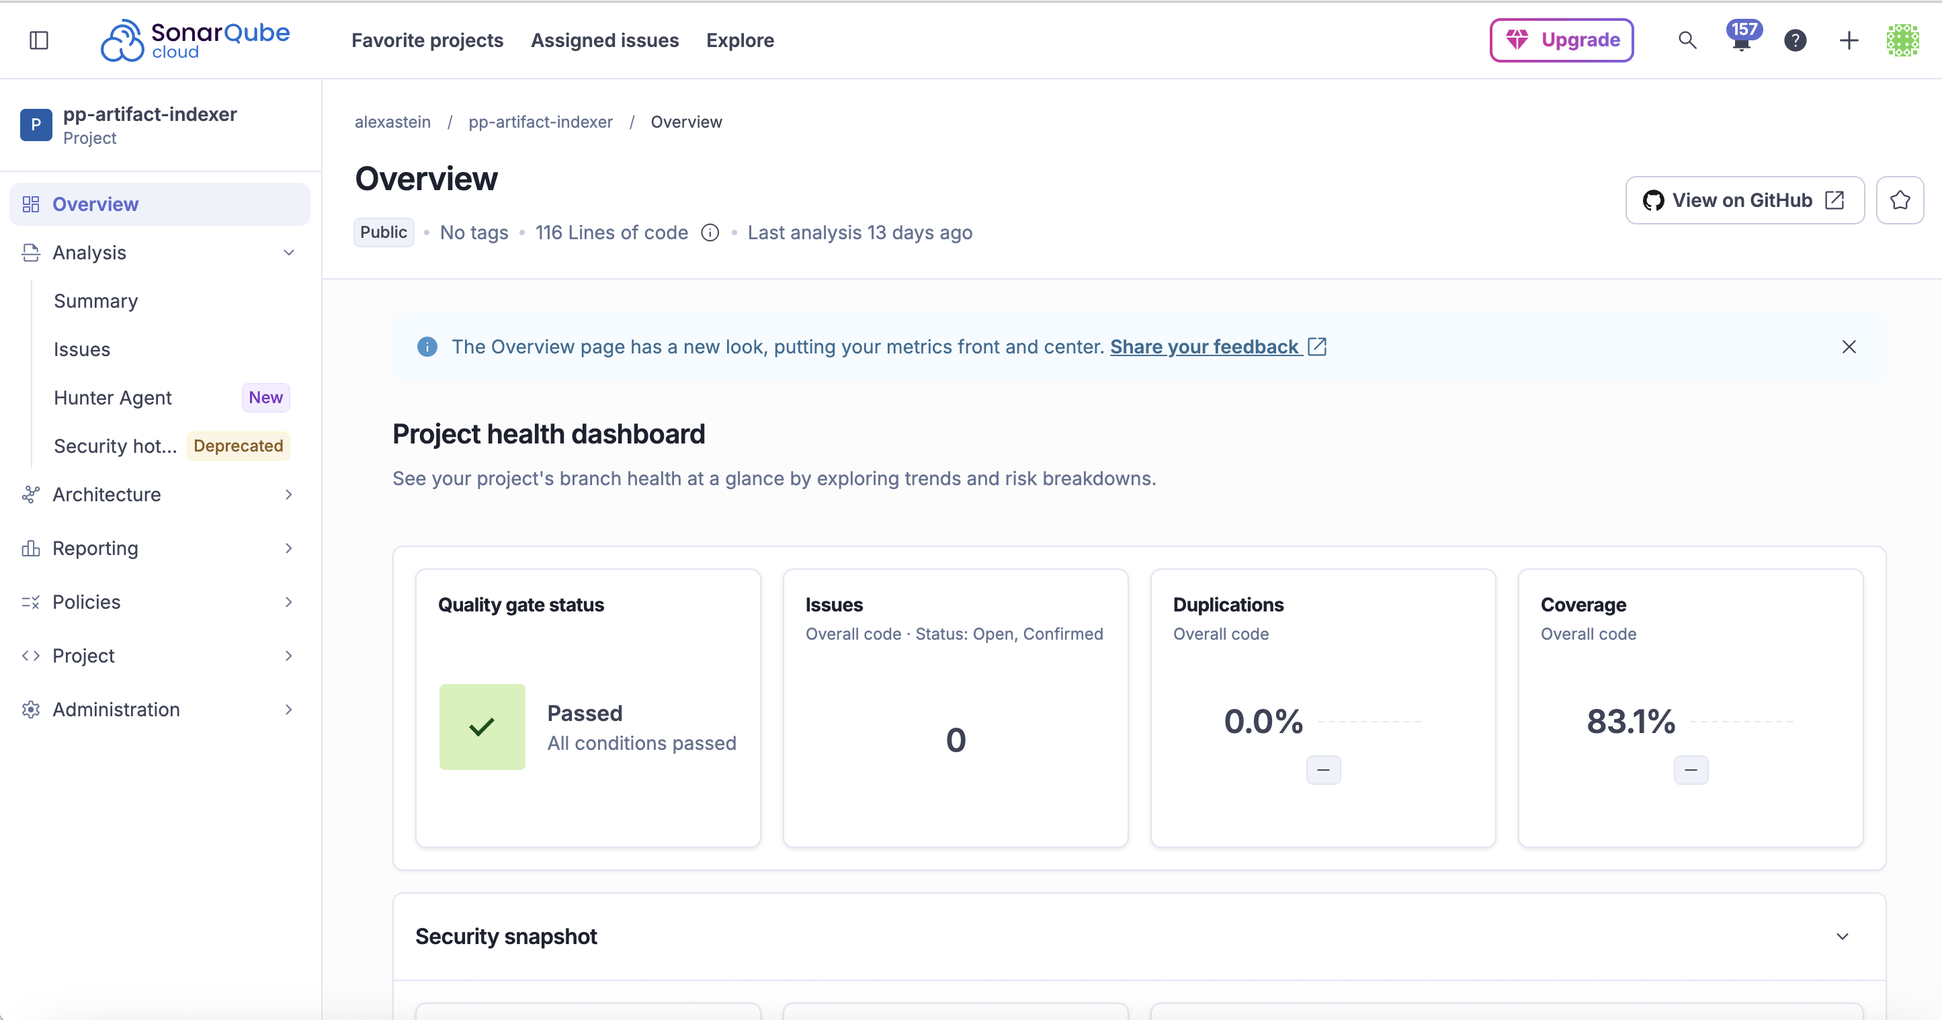
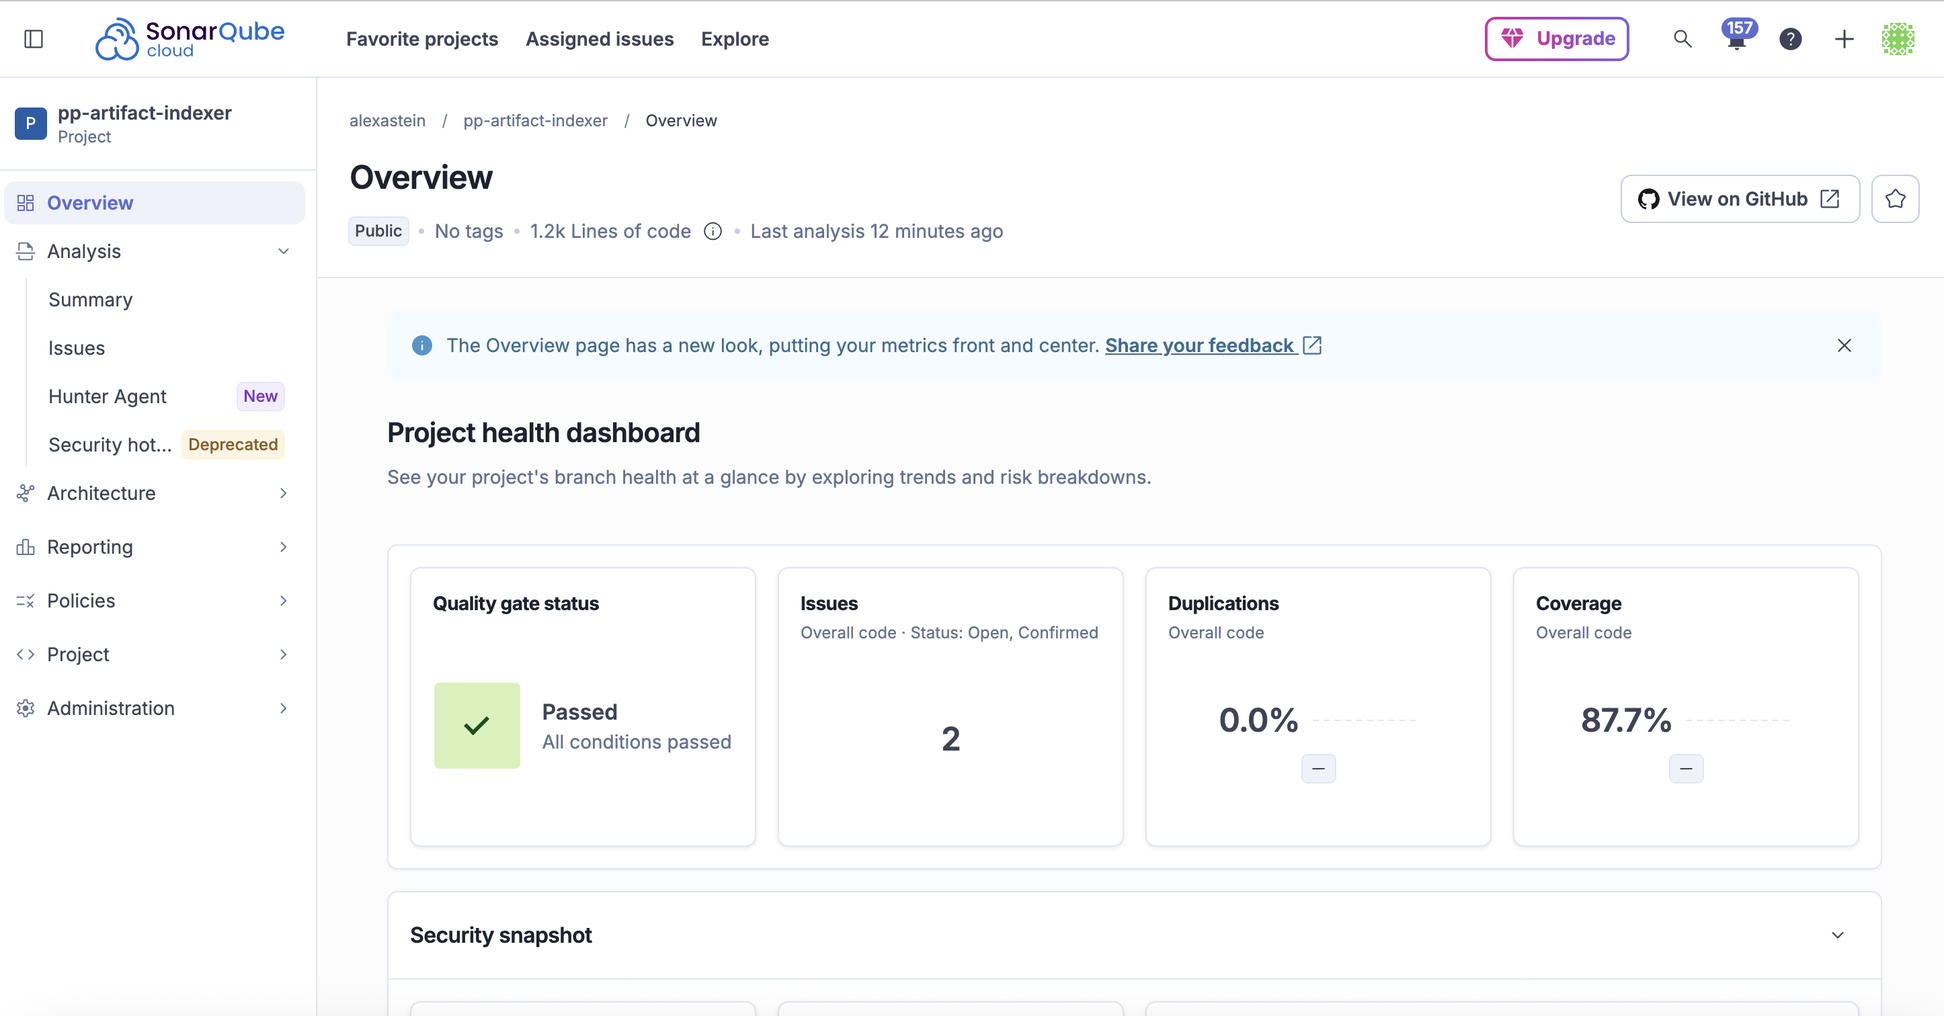
HUMAN: PA2 SonarQube results (2 issues) + overview screenshot

diff --git a/pipeline-logs/pa2/sast-triage-report.md b/pipeline-logs/pa2/sast-triage-report.md
@@ -34,12 +34,12 @@
 | Tool | Ruleset / scope | Result | Raw evidence |
 |---|---|---|---|
 | Semgrep 1.184 | `p/default`, `p/owasp-top-ten`, `p/nodejs`, `p/typescript`, `p/dockerfile`, `p/github-actions` — 266 rules, 88 files | ✅ ran — **1 finding** | `pipeline-logs/pa2/2_SAST (Semgrep).txt`, `semgrep.sarif` |
-| SonarQube Cloud | `functional-codebase/src` + tests, lcov coverage | ❌ **did not analyze** — scanner exited with `HTTP 403 Forbidden` on `api.sonarcloud.io` (invalid/expired `SONAR_TOKEN`) | `pipeline-logs/pa2/0_SAST (SonarQube Cloud).txt` |
+| SonarQube Cloud | `functional-codebase/src` + tests, lcov coverage, profile "Sonar way" (ts) | ✅ ran after token fix (first run failed with `HTTP 403`, bad `SONAR_TOKEN`) — 1.2k LOC, **2 issues**, 87.7 % coverage, 0.0 % duplication, quality gate **Passed** | `pipeline-logs/pa2/0_SAST (SonarQube Cloud).txt`, `sonar-overview.png`, `sonar-issues.json` |
 | Trivy fs 0.36 | vuln + secret + misconfig, whole repo | ✅ ran — 0 vulnerable deps, 0 secrets, **1 misconfig** | `pipeline-logs/pa2/3_Dependency & Secret Scan …txt` |
 | Trivy image 0.36 | built `pp-artifact-indexer` runtime image (`node:22-alpine` base) | ✅ ran — **1 HIGH** in a base-image package (see TV-2) | GitHub → Security → Code scanning alert #10 (tool = Trivy) |
 | npm audit | `functional-codebase/` lockfile | ✅ 0 vulnerabilities | `4_Build & Unit Test.txt` |
 
-> **Observation:** automated SAST produced almost nothing (2 alerts total) on a service that has **no authentication or authorization at all**. That gap is the main empirical result of this baseline — see §4.
+> **Observation:** automated scanning produced only a handful of alerts (Semgrep 1, SonarQube 2, Trivy 2) and SonarQube's quality gate **passed** on a service that has **no authentication or authorization at all**. That gap is the main empirical result of this baseline — see §4.
 
 ---
 
@@ -50,7 +50,8 @@
 | SG-1 | Semgrep `javascript.lang.security.audit.unsafe-formatstring.unsafe-formatstring` (GitHub code-scanning alert #25) | `functional-codebase/src/storage.ts:55` — `console.error(\`Could not delete stored file ${full}\`, err)` | **FP** | Info | CWE-134 (→ CWE-117 log forging) | Rule: a non-literal first argument to `console.*` with extra args lets an injected `%s`/`%o` re-interpret `err` and forge the log line. **Not reachable:** `full` is built only from server data — `FILE_STORAGE_DIR` + `project_id` + `artifact_id` + `randomUUID()` file name (`manuscript-files.ts` L89–94). Both ids must match `UUID_RE` (`[0-9a-f-]` only, `validation.ts`), and the user's original file name never enters the path, so no request can place a `%` in it. Only the trusted operator's env var could. **Hardening anyway (PA3):** constant format string `console.error("Could not delete stored file %s", full, err)` or a structured logger (pino). Same pattern exists unflagged at `storage.ts:48` and `manuscript-files.ts:69` because the rule only matches when extra arguments follow. |
 | TV-1 | Trivy `DS-0026` | `functional-codebase/Dockerfile` | **TP** | Low | — (hardening; relates to availability) | The runtime stage has no `HEALTHCHECK`. The PA1 Dockerfile had one; the agent dropped it. Orchestrators cannot detect a hung API. Real, low impact. |
 | TV-2 | Trivy image `CVE-2026-69192` (HIGH) — `ip-address` 10.1.0, fixed in 10.3.1 | `/usr/local/lib/node_modules/npm/node_modules/ip-address` (inside the `node:22-alpine` base image) | **TP (present) / not exploitable** — residual **Low** | HIGH → Low | CWE-1389 (enables CWE-918 SSRF) | The library treats `012.0.0.1` as decimal 12.0.0.1 while the network stack reads it as octal 10.0.0.1, so SSRF filters built on it can be bypassed. **Reachability:** the package is a dependency of the **npm CLI bundled in the base image**, not of our app (`package.json` has no `ip-address`, no code imports it), npm never runs at runtime (`CMD node dist/server.js`), and the service makes **no outbound requests** (`git-mock.ts` reads a local JSON file). Scanner is right that the vulnerable code ships; it has no context on whether it is reachable. **Fix (PA3):** delete npm/npx from the runtime stage or use a distroless Node image; rebuild on base-image updates. |
-| SQ-* | SonarQube Cloud | — | **Not available** | | | Analysis never ran (403). _After fixing the token and re-running, export issues + hotspots and add one row per finding._ |
+| SQ-1 | SonarQube `typescript:S6671` "Expected the Promise rejection reason to be an Error" (Reliability · Medium) | `functional-codebase/src/routes/manuscript-files.ts:45` — `reject(err)` where `err` is `unknown` | **TP — code quality, not a vulnerability** | Low | — (closest: CWE-703) | Real: a non-`Error` value from multer could reach the error handler. Not a security issue: `errorHandler` (`src/errors.ts`) turns anything that isn't an `AppError` into a generic `500 internal_error` with no details, so nothing leaks. Fix: `reject(err instanceof Error ? err : new Error(String(err)))`. |
+| SQ-2 | SonarQube `typescript:S5852` "Simplify this regular expression … super-linear performance due to backtracking" (Reliability · Medium) | `functional-codebase/src/validation.ts:19` — member e-mail regex `/^[^\s@]+@[^\s@]+\.[^\s@]+$/` | **TP — exploitable ReDoS → see V9** | **High** | **CWE-1333** (→ CWE-400) | `[^\s@]` also matches `.`, so for `"a@" + "."×n + "@"` the engine tries every split between the two `+` groups before failing → **O(n²)**. Measured with Node 22 on the exact regex: 10k chars 148 ms, 20k 591 ms, 40k 2.35 s, **80k 8.9 s**. Sonar rated it a "performance" smell; in context it is a security bug (see V9). |
 
 ### 2.1 Pre-triaged "likely alerts" (what a scanner would flag and why it is or isn't real)
 
@@ -79,6 +80,7 @@ These are the code patterns in this codebase that SAST rules typically match. Th
 | **V5** | State machine / Concurrency | `revision_version` is never checked → silent lost updates | **CWE-362** | Medium | Manual |
 | **V6** | Data exposure / Privacy | Member names + e-mails returned to anonymous callers | **CWE-359** | Medium | Manual |
 | **V7** | Audit / Repudiation | No audit trail of who created/changed/deleted what | **CWE-778** | Low–Medium | Manual |
+| **V9** | Input validation / Availability | ReDoS in the agent-added e-mail regex: one unauthenticated request can freeze the whole API | **CWE-1333** | High | **SonarQube (SQ-2)** + manual exploit analysis |
 | **V8** | Infrastructure / Config | Hard-coded DB credentials; container hardening dropped (no `HEALTHCHECK`, no `read_only`/`no-new-privileges`, API published on all interfaces) | **CWE-798** | Low | Trivy (partly) + manual |
 
 ### V1 — Missing authentication for critical functions (CWE-306)
@@ -129,6 +131,14 @@ These are the code patterns in this codebase that SAST rules typically match. Th
 - **Where:** `functional-codebase/docker-compose.yml` L15, L27; `.env.example` L9; `Dockerfile` (no `HEALTHCHECK` — Trivy DS-0026); compose `api` publishes `"3000:3000"` on all interfaces and lacks `read_only` / `no-new-privileges`, all of which the PA1 compose file had.
 - **Root cause:** the agent regenerated Docker config from scratch for the new folder instead of reusing the hardened PA1 files.
 
+### V9 — Inefficient regular expression (ReDoS) in member e-mail validation (CWE-1333)
+- **Where:** `src/validation.ts` L19, used by `projectBodySchema` for `POST /api/v1/projects` and `PUT /api/v1/projects/{id}`.
+- **Root cause:** the agent added e-mail validation **on its own** (never requested) with an ambiguous regex: `[^\s@]+\.[^\s@]+` can split a run of dots in many ways, and V8's backtracking engine tries all of them when the match fails → quadratic time.
+- **Why the length limit doesn't save it:** the schema is `.max(254).regex(...)`, but Zod runs all checks in order by default (it only stops early when a check is created with `abort: true`), so the regex still runs on a too-long string. The only real cap is Express's 100 kB JSON body limit, which allows ~100 000 characters.
+- **Impact:** Node.js runs request handlers on a single thread, so one request with an ~80–100 kB e-mail blocks **every** client (including `/health`) for roughly 9–14 s, and a few such requests per second keep the service down. With no authentication (V1) and no rate limit (V4), anyone can do this.
+- **Evidence:** regex timing measured on Node 22 (see SQ-2); end-to-end check in `security-poc/naive-checks.sh` step "V9" (times `/health` while the payload is processed).
+- **Fix (PA3):** use a linear-time pattern without overlapping groups (e.g. `^[^\s@]+@[^\s@.]+(\.[^\s@.]+)+$`) or `z.email()`, put `.max(254, { abort: true })` before it, and lower `express.json({ limit: "32kb" })`.
+
 ---
 
 ## 4. What the scanners missed and why
@@ -141,7 +151,9 @@ These are the code patterns in this codebase that SAST rules typically match. Th
 | V4 resource exhaustion | Needs knowledge of indexes, data volume and deployment; no single line is "wrong". |
 | V7 audit | Absence of logging is invisible to pattern matching. |
 
-Interesting counter-result: the agent **independently** added parameterized SQL with column whitelists, UUID format checks, Zod body validation, path confinement for stored files, random on-disk filenames, upload size limits, `nosniff`, and even swapped `archiver` for `fflate` after `npm audit` flagged a transitive dependency. So injection-class bugs that SAST is good at finding were mostly prevented, while every *access-control* bug — the OWASP API Top 10 #1/#2 class — was left wide open.
+**Scanner value check:** SonarQube's single most important finding (SQ-2) was labelled a *Reliability / performance* smell, and its quality gate still **passed**. It only became a High-severity DoS once a human worked out who can reach it (anyone, V1), how long the input can be (100 kB, Zod doesn't abort), and what the runtime model means (one Node thread). Severity from a scanner is a starting point, not a verdict.
+
+Interesting counter-result: the agent **independently** added parameterized SQL with column whitelists, UUID format checks, Zod body validation, path confinement for stored files, random on-disk filenames, upload size limits, `nosniff`, and even swapped `archiver` for `fflate` after `npm audit` flagged a transitive dependency. So injection-class bugs that SAST is good at finding were mostly prevented — although one of the agent's own validation regexes introduced a ReDoS (V9) — while every *access-control* bug — the OWASP API Top 10 #1/#2 class — was left wide open.
 
 ---
 
@@ -149,10 +161,10 @@ Interesting counter-result: the agent **independently** added parameterized SQL 
 
 | Category | Count |
 |---|---|
-| Raw scanner alerts | 3 (Semgrep 1, Trivy fs misconfig 1, Trivy image CVE 1); SonarQube pending export |
-| True positives from scanners | 2 (TV-1; TV-2 present but not reachable) |
+| Raw scanner alerts | 5 (Semgrep 1, SonarQube 2, Trivy fs misconfig 1, Trivy image CVE 1) |
+| True positives from scanners | 4 — TV-1, SQ-1 (quality only), TV-2 (present, not reachable), **SQ-2 (exploitable, High → V9)** |
 | False positives from scanners | 1 (SG-1 format string — input not attacker-controlled) |
-| Manual-only confirmed vulnerabilities | 7 (V1–V7) + V8 partly scanner-found |
-| Distinct layers covered | 8 (Authentication, Authorization, Input/File, Database/Availability, State, Privacy, Audit, Infrastructure) |
+| Confirmed vulnerabilities | 9 — V1–V7 manual only, V8 partly scanner-found, V9 scanner-flagged but only rated High after manual analysis |
+| Distinct layers covered | 8 (Authentication, Authorization, Input/File + validation, Database/Availability, State, Privacy, Audit, Infrastructure) |
 
 Mitigations for every item are planned in `security-analysis.md` §7 and will be implemented in PA3.

diff --git a/pipeline-logs/pa2/security-analysis.md b/pipeline-logs/pa2/security-analysis.md
@@ -75,6 +75,7 @@ Each requirement has an ID that the mitigations (§7) and PA3 prompt architectur
 | **AC-5** | Malware distributor | *Trusted-domain hosting:* uploads `syllabus.pdf.html` or an EXE as a "manuscript" and shares the download link under the university domain. | V3, V1 | Reputation damage, user compromise |
 | **AC-6** | Integrity attacker | *Swap a paper:* replaces an accepted manuscript's file with a modified one (`POST …/file` again); the new SHA-256 is recomputed and stored, so the "hash" just confirms the forgery. | V2, V7 | Research integrity loss with no audit trail |
 | **AC-7** | DoS attacker | *Exhaust resources:* loops uploads of 50 MB files to fill the volume; floods `?keyword=a&page=1000000`; triggers zip downloads in parallel. | V4 | Outage for all users |
+| **AC-10** | DoS attacker | *One-request freeze:* `POST /projects` with a member e-mail of `"a@" + 90 000 dots + "@"`; the e-mail regex backtracks for ~10 s on the single Node thread, so every other user times out. | V9, V1 | Outage from a single small request |
 | **AC-8** | Insider with repo access | Uses `pp_password` from `docker-compose.yml` against a carelessly exposed DB port. | V8 | Full DB compromise |
 | **AC-9** | Anyone | *Deny responsibility:* deletes a project and later claims it wasn't them — there is no log entry. | V7 | Repudiation |
 
@@ -151,6 +152,11 @@ flowchart TD
     Q1 --> Q11["flood keyword ILIKE '%x%' search (seq scan + count(*)) ✅"]
     Q1 --> Q12["page=1000000 deep OFFSET ✅"]
     Q1 --> Q13["many parallel zip downloads ✅"]
+    O --> X["2b. Freeze the event loop (ReDoS)"]
+    X --> X1{{AND}}
+    X1 --> X11["POST/PUT /projects needs no auth ✅"]
+    X1 --> X12["e-mail ~90k chars allowed by 100 kB body limit ✅"]
+    X1 --> X13["regex validation.ts:19 is O(n²) ✅ (V9 / SQ-2)"]
     O --> R["3. Destroy data"]
     R --> R1["mass DELETE /projects/{id} ✅ (see AT-1)"]
     O --> H["4. Hang undetected"]
@@ -186,7 +192,7 @@ flowchart TD
 | E5 | `GET …/manuscripts/{aid}/file` | ids | File read → client | Attachment, `nosniff`, path confinement | **High** — exfiltration; serves any type |
 | E6 | `GET /api/v1/projects` (search) | keyword, dates, lab/program/dept/course ids, has_artifact_type, page, page_size, sort | DB (ILIKE, subqueries, count) | Parameterized SQL, whitelisted sort, limits on keyword & page_size | **High** — DoS (V4), enumeration of ids |
 | E7 | `GET /api/v1/projects/{id}` | id | DB read incl. member e-mails | UUID check | **Medium-High** — PII (V6) |
-| E8 | `POST /api/v1/projects` | body | DB insert | Zod schema | **Medium** — spam, quota abuse |
+| E8 | `POST /api/v1/projects` (and E1 `PUT`) | body, incl. `members[].email` | Zod schema → **e-mail regex** → DB insert | Zod schema | **High** — one request triggers ReDoS (V9), plus spam/quota abuse |
 | E9 | `PUT/DELETE …/artifacts/{type}/{aid}` | type, ids, body | DB write; file delete for manuscripts | Type enum, Zod per type, whitelisted columns | **Medium-High** — V2 |
 | E10 | `POST/GET …/artifacts/{type}`, `GET …/artifacts` | type, body (URLs) | DB; `git-mock.ts` lookup of repo URL | http(s)-only URL check; mock lookup is local file, no network fetch (no SSRF) | **Medium** |
 | E11 | `DELETE …/manuscripts/{aid}/file` | ids | File delete | Path confinement | **Medium** |
@@ -194,7 +200,7 @@ flowchart TD
 | E13 | PostgreSQL `127.0.0.1:5432` (compose) | SQL with known password | Whole DB | Bound to localhost only | **Medium** in shared hosts (V8) |
 | E14 | `mock-data/*.json`, migrations, CI workflow | repo write access | seed data, schema, pipeline | Pinned action SHAs | **Low** (supply-chain, insider) |
 
-**Highest-risk vectors:** E1 and E2 (one request destroys or hijacks the source of truth), then E3–E6 (file and search endpoints combine data exposure with resource exhaustion).
+**Highest-risk vectors:** E1 and E2 (one request destroys or hijacks the source of truth), E8 (one request freezes the whole API via ReDoS), then E3–E6 (file and search endpoints combine data exposure with resource exhaustion).
 
 ---
 
@@ -241,8 +247,8 @@ Legend — **S**poofing, **T**ampering, **R**epudiation, **I**nformation disclos
 |---|---|---|---|---|---|---|
 | **EE1** API client | **T-S1** Anyone can claim to be anyone — no identity at all (V1) | — | **T-R1** Caller cannot be tied to an action (V7) | — | — | — |
 | **EE2** Operator / CI | **T-S2** Leaked `pp_password` lets an attacker act as the operator on the DB (V8) | — | **T-R2** Migrations/seed not logged with operator identity | — | — | — |
-| **P1** HTTP pipeline | **T-S3** No token verification middleware (V1) | **T-T1** Malformed/oversized bodies — mitigated (100 kB JSON limit, Zod) | **T-R3** No request id / access log | **T-I1** `X-Powered-By: Express`; error bodies are generic (good) | **T-D1** No rate limiting (V4) | **T-E1** Every caller effectively has admin rights (V1/V2) |
-| **P2** Project service | **T-S4** Member identity is just a free-text e-mail in the body — anyone can "be" a member | **T-T2** Unauthorized PUT/DELETE (V2); lost update (V5) | **T-R4** No audit of create/update/delete (V7) | **T-I2** Member e-mails exposed (V6); ids enumerable via search | **T-D2** Expensive ILIKE + count + deep OFFSET (V4) | **T-E2** Rewriting `members[].role` to `faculty` = self-promotion (V2/AC-2) |
+| **P1** HTTP pipeline | **T-S3** No token verification middleware (V1) | **T-T1** Malformed bodies — mostly mitigated (Zod); but the 100 kB JSON limit is large enough to feed the ReDoS in V9 | **T-R3** No request id / access log | **T-I1** `X-Powered-By: Express`; error bodies are generic (good) | **T-D1** No rate limiting (V4) | **T-E1** Every caller effectively has admin rights (V1/V2) |
+| **P2** Project service | **T-S4** Member identity is just a free-text e-mail in the body — anyone can "be" a member | **T-T2** Unauthorized PUT/DELETE (V2); lost update (V5) | **T-R4** No audit of create/update/delete (V7) | **T-I2** Member e-mails exposed (V6); ids enumerable via search | **T-D2** Expensive ILIKE + count + deep OFFSET (V4); **ReDoS in member e-mail regex blocks the single event loop (V9)** | **T-E2** Rewriting `members[].role` to `faculty` = self-promotion (V2/AC-2) |
 | **P3** Artifact service | — (inherits T-S3) | **T-T3** Any artifact metadata can be rewritten/deleted (V2); repo URL can point anywhere (stored only, no fetch) | **T-R5** No audit | **T-I3** All artifacts of every project readable | **T-D3** Unlimited artifacts per project | **T-E3** Cross-project access by id (IDOR) |
 | **P4** File service | — (inherits T-S3) | **T-T4** File replacement with recomputed hash makes forgery look valid (AC-6); non-PDF uploads (V3) | **T-R6** No record of who uploaded/replaced/downloaded | **T-I4** Any manuscript downloadable, zip of all (AT-2); path traversal — **mitigated** | **T-D4** Disk exhaustion; parallel zip streams (V4) | **T-E4** Uploaded active content (HTML/SVG) served with its own type — mitigated by `attachment`+`nosniff` |
 | **DS1** PostgreSQL | — | **T-T5** SQL injection — **mitigated** (parameters + whitelists); direct DB access with known password (V8) | **T-R7** No audit table; `updated_at` overwritten each time | **T-I5** PII and unpublished metadata at rest unencrypted; credentials in Git | **T-D5** Table scans; no `statement_timeout`; connection pool exhaustion | — |
@@ -256,7 +262,7 @@ Legend — **S**poofing, **T**ampering, **R**epudiation, **I**nformation disclos
 | **DF10, DF12** mock reads | — | Read-only JSON | — | — | — | — |
 | **DF11** operator→DB | — | **T-T12** Migrations run automatically on every start with the app's DB role (DDL rights at runtime) | — | **T-I11** DB password in compose/env file | — | — |
 
-**Highest-ranked threats:** T-S3/T-E1 (no authentication), T-T2/T-E2 (unauthorized modification & self-promotion), T-I4 (manuscript exfiltration), T-I2 (PII), T-D1/T-D4 (resource exhaustion), T-T4 (file forgery).
+**Highest-ranked threats:** T-S3/T-E1 (no authentication), T-T2/T-E2 (unauthorized modification & self-promotion), T-I4 (manuscript exfiltration), T-D2 (single-request ReDoS freeze, V9), T-I2 (PII), T-D1/T-D4 (resource exhaustion), T-T4 (file forgery).
 
 ---
 
@@ -269,6 +275,7 @@ Legend — **S**poofing, **T**ampering, **R**epudiation, **I**nformation disclos
 | T-E2, AC-2 | Owner-only membership changes | SR-4 | Separate `PUT /members` path or field-level check: only `faculty`/`advisor`/`ADMIN` may change `members`; DB check that ≥1 faculty remains; creator added from token, not body. |
 | V3, T-T4, T-E4, AC-5 | PDF-only uploads + integrity check | SR-6 | multer `fileFilter` (`.pdf` + `application/pdf`), read first 5 bytes = `%PDF-`; force `Content-Type: application/pdf` on download; recompute SHA-256 and compare before serving; keep upload history instead of silent replace. |
 | V4, T-D1–T-D6, AC-7 | Rate limits, quotas, indexed search | SR-7 | `express-rate-limit` per `sub`/IP; per-project file count/byte quota checked in the same transaction as upload; offset cap; replace `ILIKE '%…%'` with `to_tsvector … @@ plainto_tsquery` using the existing GIN indexes; `SET statement_timeout = '3s'`; max entries/bytes for zip. |
+| V9, T-D2, AC-10 | Linear-time validation | SR-5, SR-7 | Replace the e-mail regex with `z.email()` or `^[^\s@]+@[^\s@.]+(\.[^\s@.]+)+$`; `.max(254, { abort: true })` before any regex; `express.json({ limit: "32kb" })`; add a Semgrep/eslint `regexp/no-super-linear-backtracking` rule in CI. |
 | V5, T-T2 | Optimistic concurrency | SR-8 | `PUT` requires `If-Match: "<revision_version>"`; `UPDATE … WHERE id=$1 AND revision_version=$2`; 0 rows → `409`; add `revision_version` to `artifacts`. |
 | V6, T-I2, T-I9, AC-4 | Field-level filtering | SR-9 | Two response shapes: `publicProject` (no e-mails) and `memberProject`; explicit column lists instead of `p.*`. |
 | V7, T-R1–T-R8, AC-9 | Audit log | SR-10 | `audit_log` table written in the same transaction as each mutation; structured JSON access log with request id (`pino-http`). |
